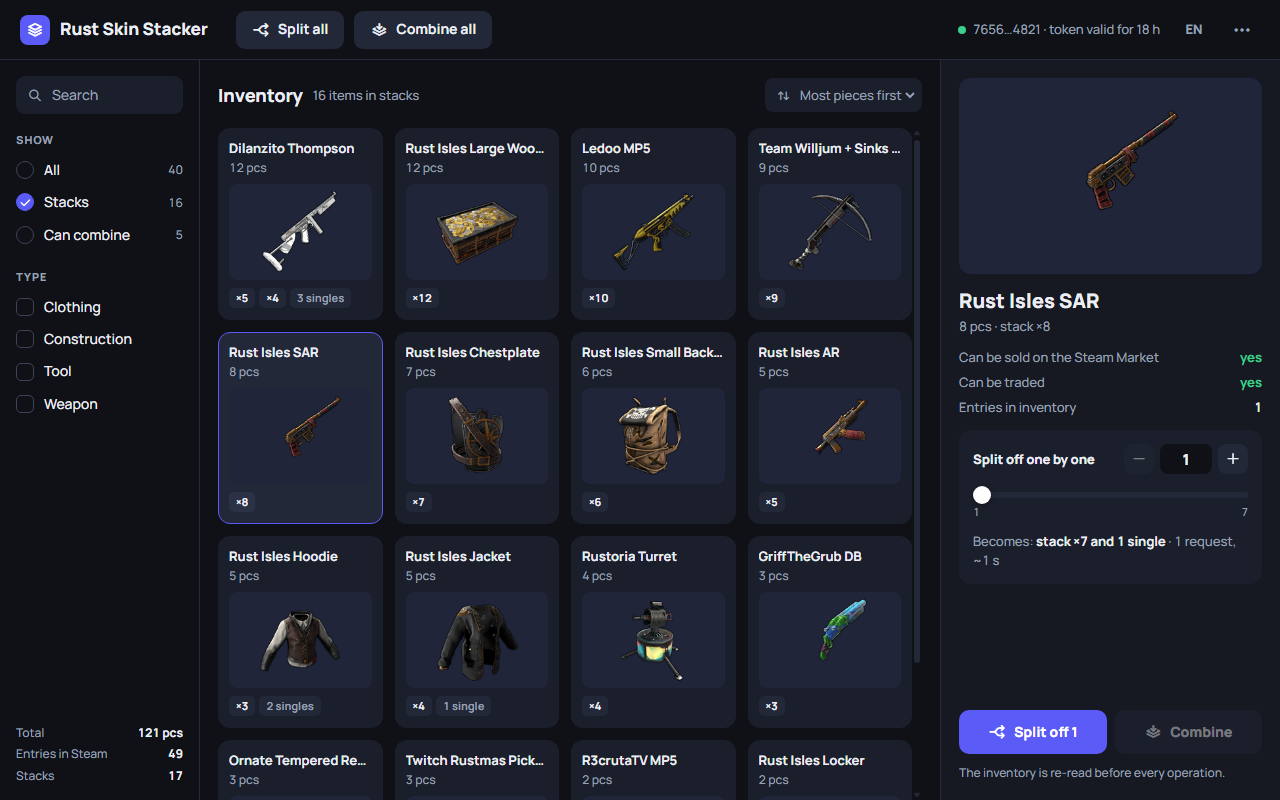
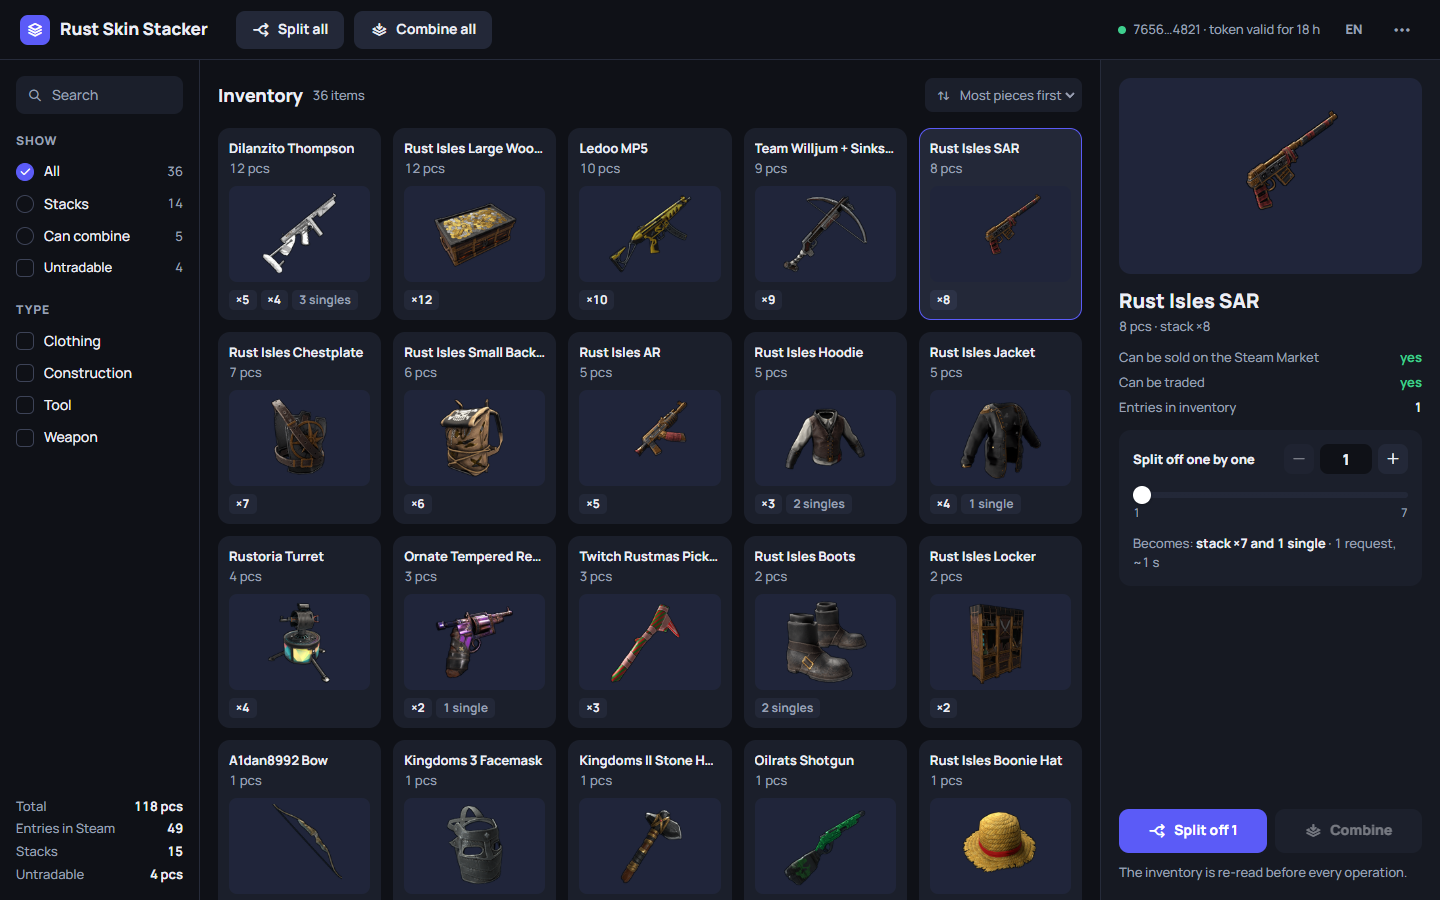
docs: флажок «Непередаваемые» и экран входа в DESIGN.md, новые снимки README
- DESIGN.md: флажок «Непередаваемые» под «Показать», строка «Нельзя передать» в итогах,
  кнопка «Закрыть» на плашке масштаба, новые отступы карточки входа.
- docs/screenshots/main.png и plan.png сняты заново: английский интерфейс, 1440×900.

diff --git a/DESIGN.md b/DESIGN.md
@@ -244,7 +244,7 @@ components:
     backgroundColor: "{colors.panel}"
     textColor: "{colors.text}"
     rounded: "{rounded.xl}"
-    padding: "22px 26px"
+    padding: "20px 26px"
     width: "560px"
 ---
 
@@ -402,7 +402,8 @@ Quiet, compact controls on dark: solid fills, no gradients, one filled button pe
 ### Filters and fields
 - **Search:** 38px, 9px radius, Ink Card; Fog Grey placeholder and icon; focus shows an inset 1.5px indigo ring.
 - **Options:** rows of 18px boxes with 1.5px Checkbox Edge border: round for single choice ("Show"), 5px radius for multiple ("Type"); checked is solid indigo with a white check; the count is 13px Fog Grey, tabular, right aligned. Group headings use the Label style.
-- **Inventory totals:** a definition list pinned to the column bottom, 13px Fog Grey labels with Mist White 700 values.
+- **Untradable switch:** under the "Show" options, a square checkbox "Непередаваемые" ("Untradable") in 13px with its count; in the narrow column the count wraps to the line below. It shows hidden Twitch drops and the like, and appears only when the inventory has such items.
+- **Inventory totals:** a definition list pinned to the column bottom, 13px Fog Grey labels with Mist White 700 values. When the inventory has hidden untradable items, a "Нельзя передать" ("Untradable") row counts their pieces.
 - **Select (sort, language):** Ink Card, 1.5px hairline border, 10px radius, 40px in the drawer (34px, borderless, 8px radius inside the grid bar); focus turns the border indigo.
 - **Token field:** monospace 13px, Night Ground fill, 1.5px hairline border, 10px radius, resizes vertically, about three lines (76px min); focus turns the border indigo; the status line below is 13px, green when valid and red when not.
 
@@ -427,13 +428,13 @@ A 192px tile: 13px / 700 name (one line, ellipsis), 13px sub-line, a 96px image 
 - **Dock:** buttons in a grid with 8px gaps (two columns for pairs such as "Split off 1" and "Combine"); the Run button is 50px, Cancel 40px; the item and multi views end with a 13px Fog Grey footer line.
 
 ### Error banner
-Fault Wash fill, Pale Fault Red 13px text, 10px radius, 8px 8px 8px 14px padding, an 18px alert icon and a 32px action button pushed right (primary for a new token, secondary for retry). It rises in over 200ms and carries `role="alert"`.
+Fault Wash fill, Pale Fault Red 13px text, 10px radius, 8px 8px 8px 14px padding, an 18px alert icon and a 32px action button pushed right (primary for a new token, secondary for retry, secondary "Dismiss" for a scale error, which also goes away by itself once the scale changes or saves). It rises in over 200ms and carries `role="alert"`.
 
 ### Settings drawer
 Slides in from the right over a scrim: 380px, Slate Panel, 1px left hairline, 22px padding, 18px gaps, Drawer edge shadow, 200ms slide of 24px with fade. Heading 20px / 800 and a close icon button; label-over-control fields; two buttons at the bottom (primary Save, secondary Close). The rest of the window is inert while it is open and Tab is trapped inside.
 
 ### Sign-in card
-Centred card, `min(560px, 100%)`, Slate Panel with a 1px hairline, 16px radius, 22px by 26px padding, 12px gaps, rising in over 250ms. Wordmark and language button on top, a 24px / 800 title, three numbered steps (24px circular badges in Indigo Wash with Text Indigo), a secondary button to open the token page, the token field, the status line, a primary Continue that stays disabled until the token validates, a "why this is safe" block (Ink Card, 12px radius, green shield icon, small grey bullets) and a centred 13px disclaimer. The non-affiliation line ("Not affiliated with Valve or Facepunch") stays on this screen and in settings.
+Centred card, `min(560px, 100%)`, Slate Panel with a 1px hairline, 16px radius, 20px by 26px padding, 10px gaps, 16px of screen padding above and below, rising in over 250ms. The empty status line is pulled up to 4px under the token field and 8px above Continue, so the screen fits 1152 x 720 (a 1440 x 900 window at 125%) and 1280 x 800 without scrolling; at 1024 x 640 it scrolls, with Continue still in view. Wordmark and language button on top, a 24px / 800 title, three numbered steps (24px circular badges in Indigo Wash with Text Indigo), a secondary button to open the token page, the token field, the status line, a primary Continue that stays disabled until the token validates, a "why this is safe" block (Ink Card, 12px radius, green shield icon, small grey bullets) and a centred 13px disclaimer. The non-affiliation line ("Not affiliated with Valve or Facepunch") stays on this screen and in settings.
 
 ### Named Rules
 **The Preview-In-Place Rule.** What an operation will do is shown on the grid before it runs: affected cards say "becomes ...", the rest dim to 35%, and the result closes with a reconciliation verdict in the panel.
